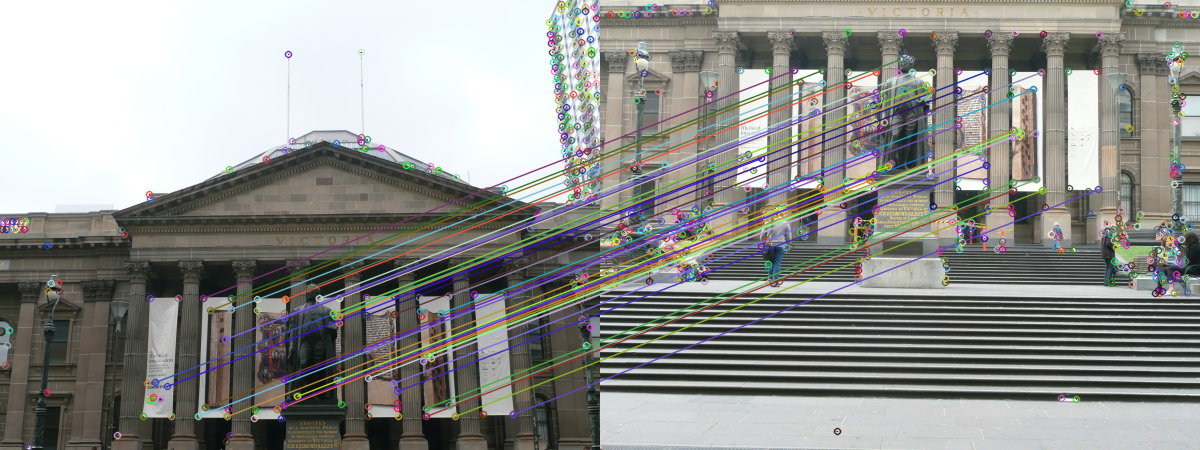
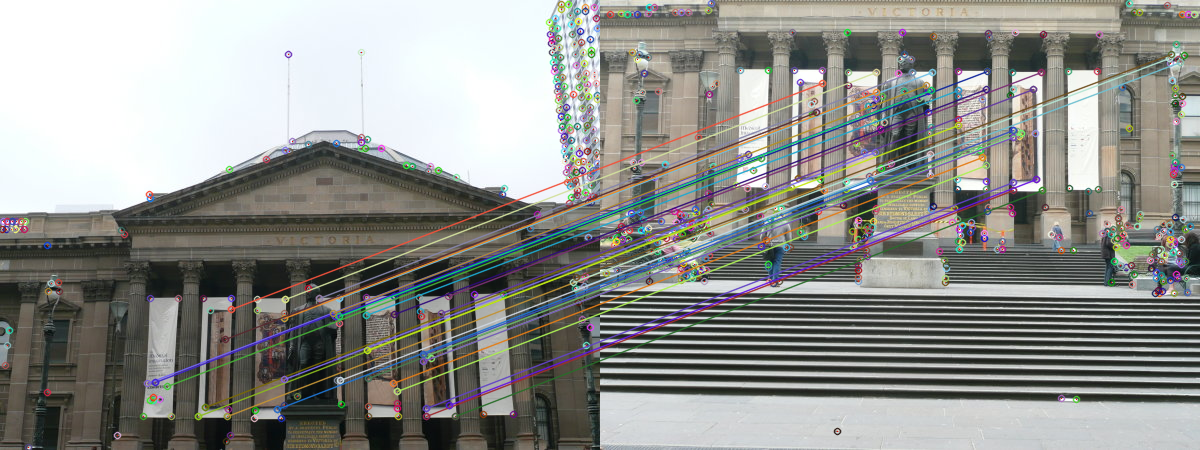
Updated parameters for better feature matching, fixed edge cases with RANSAC

diff --git a/Phase1/Code/Wrapper2.py b/Phase1/Code/Wrapper2.py
@@ -22,6 +22,7 @@ import matplotlib.pyplot as plt
 from copy import deepcopy
 import scipy.ndimage as ndimage
 from skimage.feature import peak_local_max
+import os
 
 
 def main():
@@ -32,13 +33,15 @@ def main():
     # Args = Parser.parse_args()
     # NumFeatures = Args.NumFeatures
 
-    path = "Set1"
+    path = "Set2"
+    os.makedirs(f'outputs/{path}', exist_ok=True)
 
     """
     Read a set of images for Panorama stitching
     """
-    im_set = [cv2.imread(f'D:/Computer vision/Homeworks/Project Phase1/YourDirectoryID_p1/YourDirectoryID_p1/Phase1/Data/Train/{path}/{i + 1}.jpg') for i in range(3)]
-
+    # im_set = [cv2.imread(f'D:/Computer vision/Homeworks/Project Phase1/YourDirectoryID_p1/YourDirectoryID_p1/Phase1/Data/Train/{path}/{i + 1}.jpg') for i in range(3)]
+    im_set = [cv2.imread(f'Phase1/Data/Train/{path}/{i + 1}.jpg') for i in range(3)]
+    
     for im in im_set:
         cv2.imshow('image', im)
         cv2.waitKey(2000)
@@ -51,7 +54,7 @@ def main():
     corner_im = []
     for i, im in enumerate(im_set):
         gray = cv2.cvtColor(im, cv2.COLOR_BGR2GRAY)
-        harris_corners = cv2.cornerHarris(gray, 3, 3, 0.04)
+        harris_corners = cv2.cornerHarris(gray, 5, 3, 0.06)
         corner_im.append(harris_corners)
         # print(harris_corners.shape, im.shape)
 
@@ -60,7 +63,7 @@ def main():
 
         # Threshold for an optimal value, it may vary depending on the image.
         harris_im = deepcopy(im)
-        harris_im[dst > 0.01 * dst.max()] = [0, 0, 255]
+        harris_im[dst > 0.0075 * dst.max()] = [0, 0, 255]
 
         # plt.imshow(harris_corners, cmap='gray')
         # plt.show()
@@ -89,6 +92,8 @@ def main():
 	Perform ANMS: Adaptive Non-Maximal Suppression
 	Save ANMS output as anms.png
 	"""
+    
+    USE_SUBPIX = False
 
     features_set = []
     for i, im in enumerate(corner_im):
@@ -98,7 +103,7 @@ def main():
 
         cpy = deepcopy(im_set[i])
 
-        lm = peak_local_max(im, min_distance=2, threshold_rel=0.02)
+        lm = peak_local_max(im, min_distance=2, threshold_rel=0.01)
         dst = np.zeros(im.shape)
         features = []
         for x, y in lm:
@@ -107,24 +112,33 @@ def main():
             im_set[i][x, y] = [0, 0, 255]
             # cv2.circle(im_set[i], (y, x), 1, (0, 0, 255))
 
-        features_set.append(features)
+        if not USE_SUBPIX:
+            features_set.append(features)
+        
         cv2.imwrite(f'outputs/{path}/anms{i}.png', im_set[i])
-
+        
+        # NOTE: might try to use later
+        ### Subpixel accuracy ###
         dst = np.uint8(dst)
         # find centroids
         ret, labels, stats, centroids = cv2.connectedComponentsWithStats(dst)
-
+        
         # define the criteria to stop and refine the corners
         criteria = (cv2.TERM_CRITERIA_EPS + cv2.TERM_CRITERIA_MAX_ITER, 100, 0.001)
-        corners = cv2.cornerSubPix(gray, np.float32(centroids), (5, 5), (-1, -1), criteria)
-
+        corners = cv2.cornerSubPix(gray,np.float32(centroids),(5,5),(-1,-1),criteria)
+        
+        # print(corners)
+        if USE_SUBPIX:
+            features_set.append([np.int0([x, y]) for x, y in corners])
+        
         # Now draw them
-        res = np.hstack((centroids, corners))
+        res = np.hstack((centroids,corners))
         res = np.int0(res)
-        cpy[res[:, 1], res[:, 0]] = [0, 0, 255]
-        cpy[res[:, 3], res[:, 2]] = [0, 255, 0]
+        cpy[res[:,1],res[:,0]]=[0,0,255]
+        cpy[res[:,3],res[:,2]] = [0,255,0]
 
-        cv2.imwrite(f'corners_subpix{i}.png', cpy)
+        # cv2.imwrite(f'corners_subpix{i}.png', cpy)
+        cv2.imwrite(f'outputs/{path}/corners_subpix{i}.png', cpy)
 
     """
 	Feature Descriptors
@@ -182,7 +196,7 @@ def main():
 	Save Feature Matching output as matching.png
 	"""
     match_set = []
-    def match_features(descriptors1, descriptors2):
+    def match_features(descriptors1, descriptors2, threshold=0.75):
         matches = []
         for i, descriptor in enumerate(descriptors1):
             # Sort descriptors in keypoints2 based on their distance to the current descriptor from keypoints1
@@ -190,7 +204,7 @@ def main():
             sorted_indices = np.argsort(distances)
 
             # Apply the ratio test (lowe's ratio test)
-            if distances[sorted_indices[0]] < 0.6 * distances[sorted_indices[1]]:
+            if distances[sorted_indices[0]] < threshold * distances[sorted_indices[1]]:
                 match = cv2.DMatch(i, sorted_indices[0], distances[sorted_indices[0]])
                 matches.append(match)
 
@@ -249,7 +263,7 @@ def main():
 
         return h.reshape(3, 3)
 
-    def RANSAC(keypoints1, keypoints2, matches, tau=5, N=5000):
+    def RANSAC(keypoints1, keypoints2, matches, tau=10, N=10000):
         max_inliers = []
         best_homography = None
         for i in range(N):
@@ -278,9 +292,11 @@ def main():
                 break
 
         print(f"Found homography with {len(max_inliers)} inliers after {N} iterations")
+        if len(max_inliers) < 8:
+            return False, None, None
 
         pairs = [[keypoints1[pair.queryIdx], keypoints2[pair.trainIdx]] for pair in max_inliers]
-        return get_homography(pairs), max_inliers
+        return True, get_homography(pairs), max_inliers
 
     homography_set = []
     inliers_set = []
@@ -288,9 +304,15 @@ def main():
     for i, (im1, features1, desc1) in enumerate(zip(im_set[:-1], features_set[:-1], discriptors_set[:-1])):
         for j, (im2, features2, desc2) in enumerate(zip(im_set[i + 1:], features_set[i + 1:], discriptors_set[i + 1:]),
                                                     start=i + 1):
+            
             matches = match_features(desc1, desc2)
+            if len(matches) < 8:
+                continue
+            
             matches = np.array(matches)
-            H, inliers = RANSAC(features1, features2, matches)
+            ret, H, inliers = RANSAC(features1, features2, matches)
+            if not ret:
+                continue
             homography_set.append(H)
             inliers_set.append(inliers)
             #  KeyPoints
